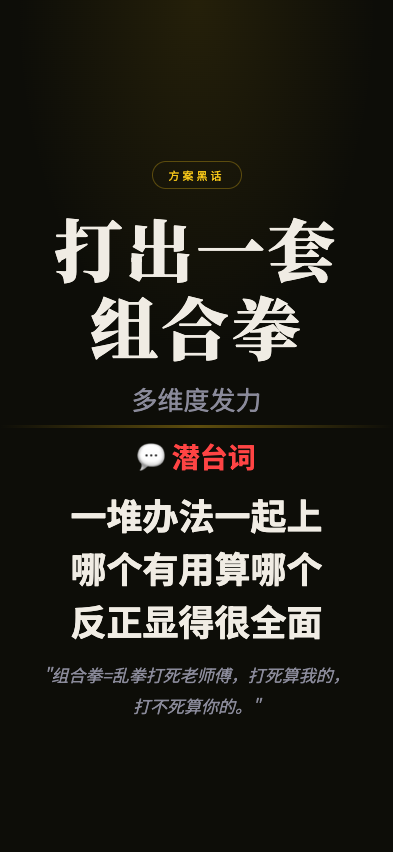
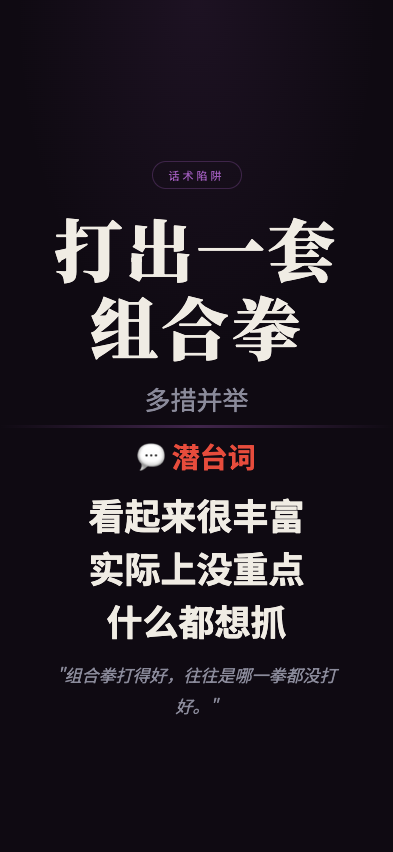
feat: 职场生存法则 screenshot - zheshiwoyeyouzeren

diff --git a/wuliao-tools/tools/biz-speak/scenes/dachuyitaozuhequan.html b/wuliao-tools/tools/biz-speak/scenes/dachuyitaozuhequan.html
@@ -7,11 +7,11 @@
 <link href="https://fonts.googleapis.com/css2?family=Noto+Serif+SC:wght@400;700;900&family=Noto+Sans+SC:wght@300;400;700&display=swap" rel="stylesheet">
 <style>
   :root {
-    --bg: #0d0d08;
+    --bg: #0f0a12;
     --text: #f0ece4;
     --text-dim: #8a8a9a;
-    --gold: #f5c518;
-    --red: #ff4444;
+    --gold: #9b59b6;
+    --red: #e74c3c;
   }
   * { margin:0; padding:0; box-sizing:border-box; }
   html, body { width:100%; height:100%; overflow:hidden; }
@@ -24,11 +24,11 @@
   }
   body::before {
     content:''; position:absolute; top:0; left:0; right:0; height:45%;
-    background:radial-gradient(ellipse at 50% 0%, rgba(245,197,24,0.1) 0%, transparent 65%);
+    background:radial-gradient(ellipse at 50% 0%, rgba(155,89,182,0.1) 0%, transparent 65%);
     pointer-events:none; z-index:0;
   }
   .top { flex:1; display:flex; flex-direction:column; align-items:center; justify-content:flex-end; padding:4px 28px 8px; position:relative; z-index:1; }
-  .tag { font-size:11px; letter-spacing:3px; color:var(--gold); border:1px solid rgba(245,197,24,0.3); padding:5px 16px; border-radius:50px; margin-bottom:20px; }
+  .tag { font-size:11px; letter-spacing:3px; color:var(--gold); border:1px solid rgba(155,89,182,0.3); padding:5px 16px; border-radius:50px; margin-bottom:20px; }
   .main-title { font-family:'Noto Serif SC'; font-size:68px; font-weight:900; text-align:center; line-height:1.15; letter-spacing:3px; min-width:0; overflow-wrap:break-word; max-width:92%; }
   .sub-title { font-size:26px; color:var(--text-dim); text-align:center; margin-top:14px; }
   .divider { width:100%; height:3px; background:linear-gradient(90deg,transparent,var(--gold),transparent); opacity:0.35; flex-shrink:0; position:relative; z-index:1; }
@@ -41,19 +41,19 @@
 </head>
 <body>
   <div class="top">
-    <div class="tag">方案黑话</div>
+    <div class="tag">话术陷阱</div>
     <div class="main-title">打出一套组合拳</div>
-    <div class="sub-title">多维度发力</div>
+    <div class="sub-title">多措并举</div>
   </div>
   <div class="divider"></div>
   <div class="bottom">
     <div class="truth-label">💬 潜台词</div>
     <div class="truth-lines">
-      <div class="truth-line">一堆办法一起上</div>
-      <div class="truth-line">哪个有用算哪个</div>
-      <div class="truth-line">反正显得很全面</div>
+      <div class="truth-line">看起来很丰富</div>
+      <div class="truth-line">实际上没重点</div>
+      <div class="truth-line">什么都想抓</div>
     </div>
-    <div class="quote">"组合拳=乱拳打死老师傅，打死算我的，打不死算你的。"</div>
+    <div class="quote">"组合拳打得好，往往是哪一拳都没打好。"</div>
   </div>
 </body>
 </html>
